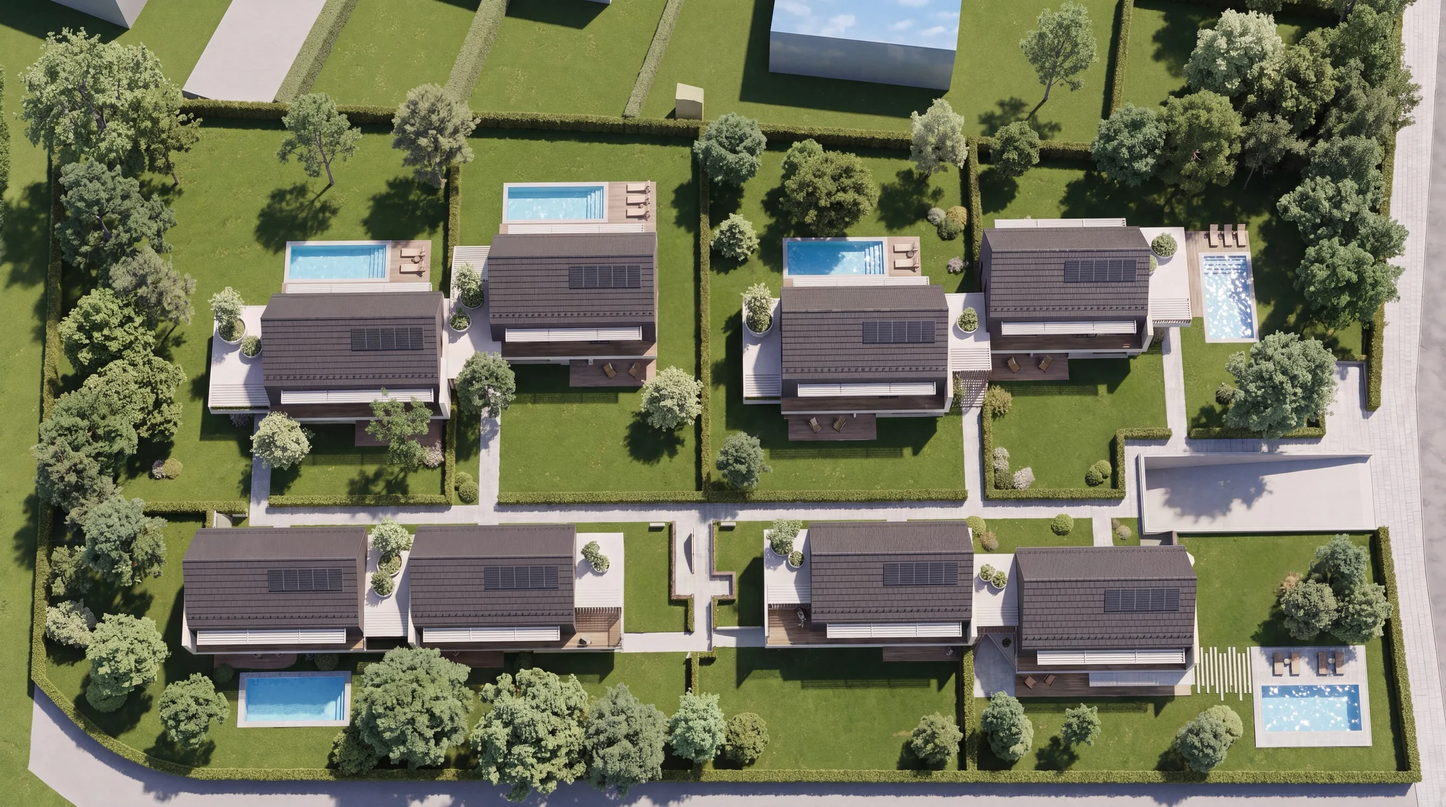
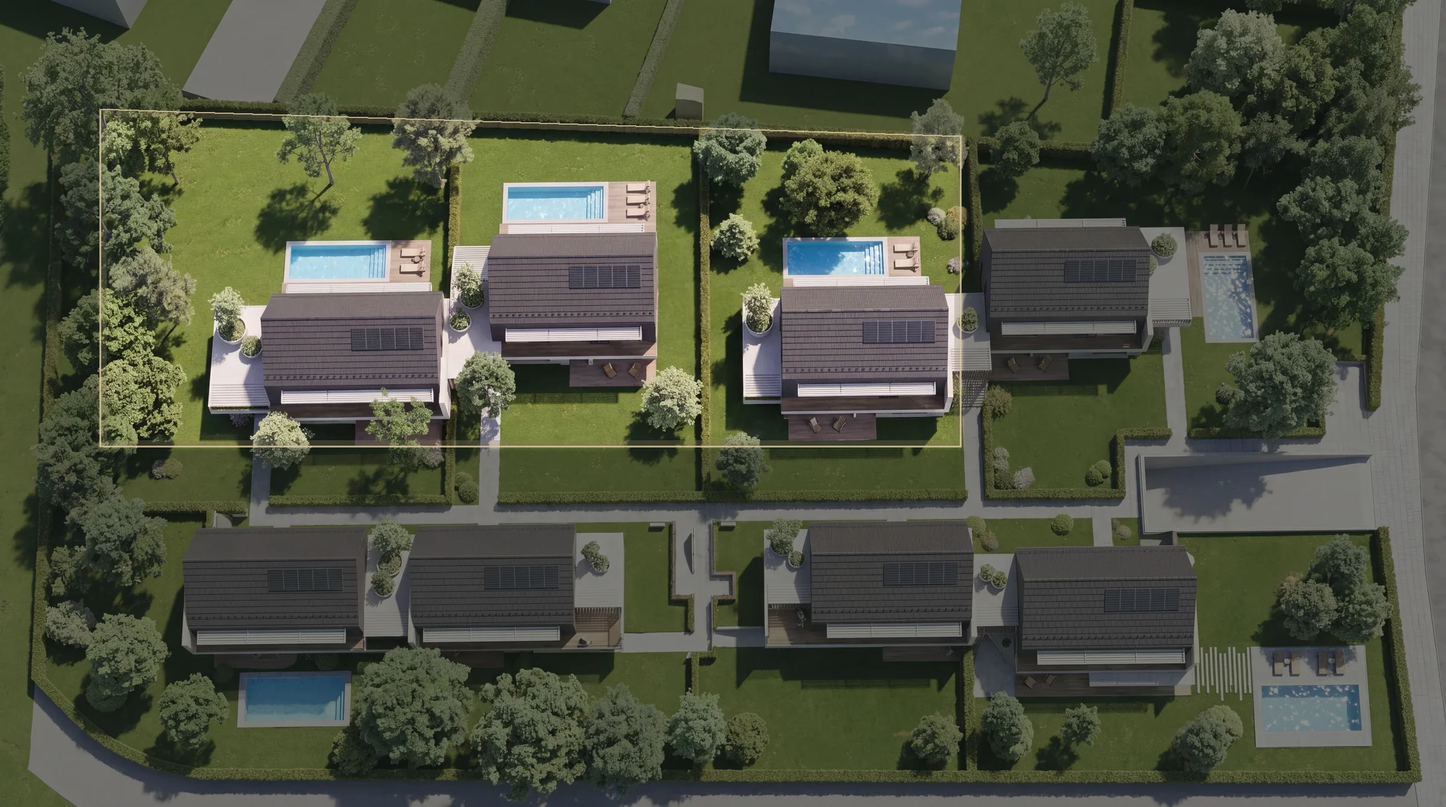
Clearly highlight available Villas 1, 2, 3 on aerial render with badges, add subtle tags for other lots, and remove aménagements spec

diff --git a/css/style.css b/css/style.css
@@ -647,32 +647,103 @@ h1.main-title {
 .vam-pin {
   position: absolute;
   transform: translate(-50%, -50%);
-  padding: 7px 14px;
-  background: rgba(255, 255, 255, 0.92);
+  padding: 6px 14px;
+  background: rgba(255, 255, 255, 0.96);
   color: #384c3d;
-  border: 1px solid var(--color-gold, #847657);
+  border: 1.5px solid #847657;
   border-radius: 999px;
   font-family: var(--font-ridley);
   font-size: 11px;
-  letter-spacing: 0.14em;
+  letter-spacing: 0.12em;
   text-transform: uppercase;
   text-decoration: none;
   white-space: nowrap;
   display: inline-flex;
   align-items: center;
-  justify-content: center;
+  gap: 8px;
   line-height: 1;
-  box-shadow: 0 4px 14px rgba(0, 0, 0, 0.18);
-  transition: background 0.25s ease, color 0.25s ease, transform 0.25s ease;
+  box-shadow: 0 4px 18px rgba(0, 0, 0, 0.25);
+  transition: background 0.25s ease, color 0.25s ease, transform 0.25s ease, box-shadow 0.25s ease;
+  z-index: 6;
 }
 
-.vam-pin-word { margin-right: 0.4em; }
+.vam-pin-dot {
+  width: 8px;
+  height: 8px;
+  border-radius: 50%;
+  background: #52a447;
+  box-shadow: 0 0 0 2px rgba(82, 164, 71, 0.35);
+  flex-shrink: 0;
+}
+
+.vam-pin-title {
+  font-weight: 700;
+  letter-spacing: 0.14em;
+}
+
+.vam-pin-badge {
+  font-size: 9.5px;
+  font-weight: 600;
+  letter-spacing: 0.1em;
+  color: #245722;
+  background: rgba(127, 176, 74, 0.2);
+  padding: 3px 8px;
+  border-radius: 999px;
+  border: 1px solid rgba(82, 164, 71, 0.3);
+  transition: all 0.25s ease;
+}
 
 .vam-pin:hover,
 .vam-pin:focus-visible {
   background: #384c3d;
-  color: #fff;
-  transform: translate(-50%, -50%) scale(1.06);
+  color: #ffffff;
+  border-color: #384c3d;
+  transform: translate(-50%, -50%) scale(1.08);
+  box-shadow: 0 8px 24px rgba(0, 0, 0, 0.35);
+}
+
+.vam-pin:hover .vam-pin-dot {
+  background: #ffffff;
+  box-shadow: 0 0 0 2px rgba(255, 255, 255, 0.4);
+}
+
+.vam-pin:hover .vam-pin-badge {
+  background: rgba(255, 255, 255, 0.22);
+  color: #ffffff;
+  border-color: rgba(255, 255, 255, 0.4);
+}
+
+/* Muted pins for reserved / sold villas */
+.vam-pin-muted {
+  position: absolute;
+  transform: translate(-50%, -50%);
+  padding: 4px 10px;
+  background: rgba(22, 28, 24, 0.72);
+  color: #d1d8d5;
+  border: 1px solid rgba(255, 255, 255, 0.15);
+  border-radius: 999px;
+  font-family: var(--font-ridley);
+  font-size: 10px;
+  letter-spacing: 0.1em;
+  text-transform: uppercase;
+  white-space: nowrap;
+  display: inline-flex;
+  align-items: center;
+  gap: 6px;
+  pointer-events: none;
+  backdrop-filter: blur(4px);
+  -webkit-backdrop-filter: blur(4px);
+  z-index: 4;
+}
+
+.vam-pin-muted .vam-tag-res {
+  font-size: 8.5px;
+  color: #e5b974;
+}
+
+.vam-pin-muted .vam-tag-sold {
+  font-size: 8.5px;
+  color: #9ea8a4;
 }
 
 .vam-caption {
@@ -680,7 +751,7 @@ h1.main-title {
   justify-content: space-between;
   align-items: center;
   flex-wrap: wrap;
-  gap: 8px 20px;
+  gap: 12px 24px;
   margin-top: 14px;
   font-family: var(--font-ridley);
   font-size: 11px;
@@ -689,25 +760,65 @@ h1.main-title {
   color: #6b6b6b;
 }
 
+.vam-legend-group {
+  display: inline-flex;
+  align-items: center;
+  gap: 18px;
+  flex-wrap: wrap;
+}
+
 .vam-legend {
   display: inline-flex;
   align-items: center;
-  gap: 10px;
+  gap: 8px;
   color: #384c3d;
+  font-weight: 600;
+}
+
+.vam-legend.muted {
+  color: #7a7a7a;
+  font-weight: 400;
 }
 
 .vam-swatch {
-  width: 22px;
-  height: 12px;
-  border-radius: 2px;
-  background: linear-gradient(90deg, #7fb04a, #b9d77a);
-  border: 1px solid rgba(56, 76, 61, 0.25);
+  width: 14px;
+  height: 14px;
+  border-radius: 50%;
+  display: inline-block;
+  flex-shrink: 0;
+}
+
+.vam-swatch.available {
+  background: #52a447;
+  border: 1px solid rgba(82, 164, 71, 0.4);
+  box-shadow: 0 0 0 2px rgba(82, 164, 71, 0.25);
+}
+
+.vam-swatch.muted {
+  background: #999999;
+  border: 1px solid rgba(0, 0, 0, 0.15);
 }
 
 @media (max-width: 600px) {
-  .vam-pin { width: 26px; height: 26px; padding: 0; font-size: 11px; letter-spacing: 0; }
-  .vam-pin-word { display: none; }
-  .vam-caption { justify-content: center; text-align: center; }
+  .vam-pin { padding: 4px 8px; font-size: 9.5px; gap: 5px; }
+  .vam-pin-badge { display: none; }
+  .vam-pin-muted { display: none; }
+  .vam-caption {
+    flex-direction: column;
+    align-items: center;
+    justify-content: center;
+    text-align: center;
+    gap: 8px;
+  }
+  .vam-legend-group {
+    flex-direction: column;
+    align-items: center;
+    gap: 6px;
+  }
+  .vam-legend {
+    justify-content: center;
+    font-size: 10px;
+  }
 }
 
 .villas-stacked-showcase {

diff --git a/index.html b/index.html
@@ -113,12 +113,35 @@
                srcset="assets/villas-disponibles-aerien-1200.webp 1200w, assets/villas-disponibles-aerien-2400.webp 2400w"
                sizes="(max-width: 1240px) 100vw, 1200px" loading="lazy" width="2400" height="1340"
                data-i18n-attr="alt:avail.map_alt" alt="Vue aérienne du Domaine de Bellevue : les Villas 1, 2 et 3 encore disponibles sont mises en évidence">
-          <a class="vam-pin" href="#villa-card-1" style="left:24.0%;top:42.5%;"><span class="vam-pin-word">Villa</span>1</a>
-          <a class="vam-pin" href="#villa-card-2" style="left:39.6%;top:35.8%;"><span class="vam-pin-word">Villa</span>2</a>
-          <a class="vam-pin" href="#villa-card-3" style="left:59.6%;top:42.5%;"><span class="vam-pin-word">Villa</span>3</a>
+          <!-- Available Villas: 1, 2, 3 with active interactive pins -->
+          <a class="vam-pin vam-pin-available" href="#villa-card-1" style="left:24.0%;top:42.5%;">
+            <span class="vam-pin-dot"></span>
+            <span class="vam-pin-title">Villa 1</span>
+            <span class="vam-pin-badge" data-i18n="avail.badge">Disponible</span>
+          </a>
+          <a class="vam-pin vam-pin-available" href="#villa-card-2" style="left:39.6%;top:35.8%;">
+            <span class="vam-pin-dot"></span>
+            <span class="vam-pin-title">Villa 2</span>
+            <span class="vam-pin-badge" data-i18n="avail.badge">Disponible</span>
+          </a>
+          <a class="vam-pin vam-pin-available" href="#villa-card-3" style="left:59.6%;top:42.5%;">
+            <span class="vam-pin-dot"></span>
+            <span class="vam-pin-title">Villa 3</span>
+            <span class="vam-pin-badge" data-i18n="avail.badge">Disponible</span>
+          </a>
+
+          <!-- Other lots: subtle indicators -->
+          <div class="vam-pin-muted" style="left:73.5%;top:35.8%;">Villa 4 · <span class="vam-tag-res" data-i18n="plan.reserved">Réservée</span></div>
+          <div class="vam-pin-muted" style="left:75.0%;top:67.0%;">Villa 5 · <span class="vam-tag-sold" data-i18n="plan.sold">Vendue</span></div>
+          <div class="vam-pin-muted" style="left:60.0%;top:67.0%;">Villa 6 · <span class="vam-tag-res" data-i18n="plan.reserved">Réservée</span></div>
+          <div class="vam-pin-muted" style="left:35.5%;top:67.0%;">Villa 7 · <span class="vam-tag-sold" data-i18n="plan.sold">Vendue</span></div>
+          <div class="vam-pin-muted" style="left:21.0%;top:67.0%;">Villa 8 · <span class="vam-tag-sold" data-i18n="plan.sold">Vendue</span></div>
         </div>
         <figcaption class="vam-caption">
-          <span class="vam-legend"><span class="vam-swatch" aria-hidden="true"></span><span data-i18n="avail.map_legend">Villas encore disponibles · Dès CHF 2,75M</span></span>
+          <div class="vam-legend-group">
+            <span class="vam-legend"><span class="vam-swatch available" aria-hidden="true"></span><span data-i18n="avail.map_legend">Villas 1, 2 &amp; 3 disponibles · Dès CHF 2,75M</span></span>
+            <span class="vam-legend muted"><span class="vam-swatch muted" aria-hidden="true"></span><span data-i18n="avail.map_legend_other">Autres lots réservés ou vendus</span></span>
+          </div>
           <span class="vam-hint" data-i18n="avail.map_hint">Cliquez sur une villa pour la découvrir</span>
         </figcaption>
       </figure>
@@ -178,8 +201,8 @@
                 <span class="spec-val">939 m²</span>
               </div>
               <div class="spec-tile">
-                <span class="spec-label" data-i18n="spec.features">Aménagements</span>
-                <span class="spec-val" data-i18n="spec.pool">Piscine réalisable</span>
+                <span class="spec-label" data-i18n="spec.basement">Sous-sol modulable</span>
+                <span class="spec-val">&gt; 100 m²</span>
               </div>
             </div>
             <div class="stacked-locator-box prominent" data-i18n-attr="title:loc.hint_title" title="Cliquer pour voir le tableau des disponibilités">

diff --git a/js/i18n.js b/js/i18n.js
@@ -24,8 +24,10 @@ window.I18N = {
     "villas.title": "L’équilibre parfait entre style et confort",
     "villas.intro": "<strong>Dernières villas disponibles du domaine :</strong> les <strong>Villas 1, 2 et 3</strong> représentent les ultimes opportunités d'acquérir une propriété d'exception à Trélex. Situées en position dominante sur les parcelles les plus généreuses avec de vastes jardins privatifs, elles allient architecture contemporaine, volumes d'exception et vues panoramiques sur le lac Léman et les Alpes. Une opportunité rare de profiter d’une qualité de vie incomparable, à seulement 5 minutes de Nyon et 20 minutes de Genève.",
     "avail.map_alt": "Vue aérienne du Domaine de Bellevue : les Villas 1, 2 et 3 encore disponibles sont mises en évidence",
-    "avail.map_legend": "Villas encore disponibles · Dès CHF 2,75M",
+    "avail.map_legend": "Villas 1, 2 & 3 disponibles · Dès CHF 2,75M",
+    "avail.map_legend_other": "Autres lots réservés ou vendus",
     "avail.map_hint": "Cliquez sur une villa pour la découvrir",
+    "avail.badge": "Disponible",
     "villa.status": "Disponible · Dès CHF 2,75M",
     "villa.pdf": "Télécharger les plans (PDF)",
     "villa1.lead": "Position dominante au sommet du domaine (en haut à gauche du plan). Vaste parcelle privative de 939 m² sans vis-à-vis avec vue panoramique sur le lac Léman et les Alpes.",
@@ -165,8 +167,10 @@ window.I18N = {
     "villas.title": "The perfect balance between style and comfort",
     "villas.intro": "<strong>Last available villas on the estate:</strong> <strong>Villas 1, 2 and 3</strong> represent the final opportunities to acquire an exceptional property in Trélex. Set in a commanding position on the most generous plots with vast private gardens, they combine contemporary architecture, exceptional volumes and panoramic views of Lake Geneva and the Alps. A rare opportunity to enjoy an incomparable quality of life, just 5 minutes from Nyon and 20 minutes from Geneva.",
     "avail.map_alt": "Aerial view of Domaine de Bellevue: Villas 1, 2 and 3, still available, are highlighted",
-    "avail.map_legend": "Villas still available · From CHF 2.75M",
+    "avail.map_legend": "Villas 1, 2 & 3 available · From CHF 2.75M",
+    "avail.map_legend_other": "Other lots reserved or sold",
     "avail.map_hint": "Click a villa to explore it",
+    "avail.badge": "Available",
     "villa.status": "Available · From CHF 2.75M",
     "villa.pdf": "Download plans (PDF)",
     "villa1.lead": "Commanding position at the top of the estate (top left of the plan). A vast, unoverlooked 939 m² private plot with panoramic views of Lake Geneva and the Alps.",
